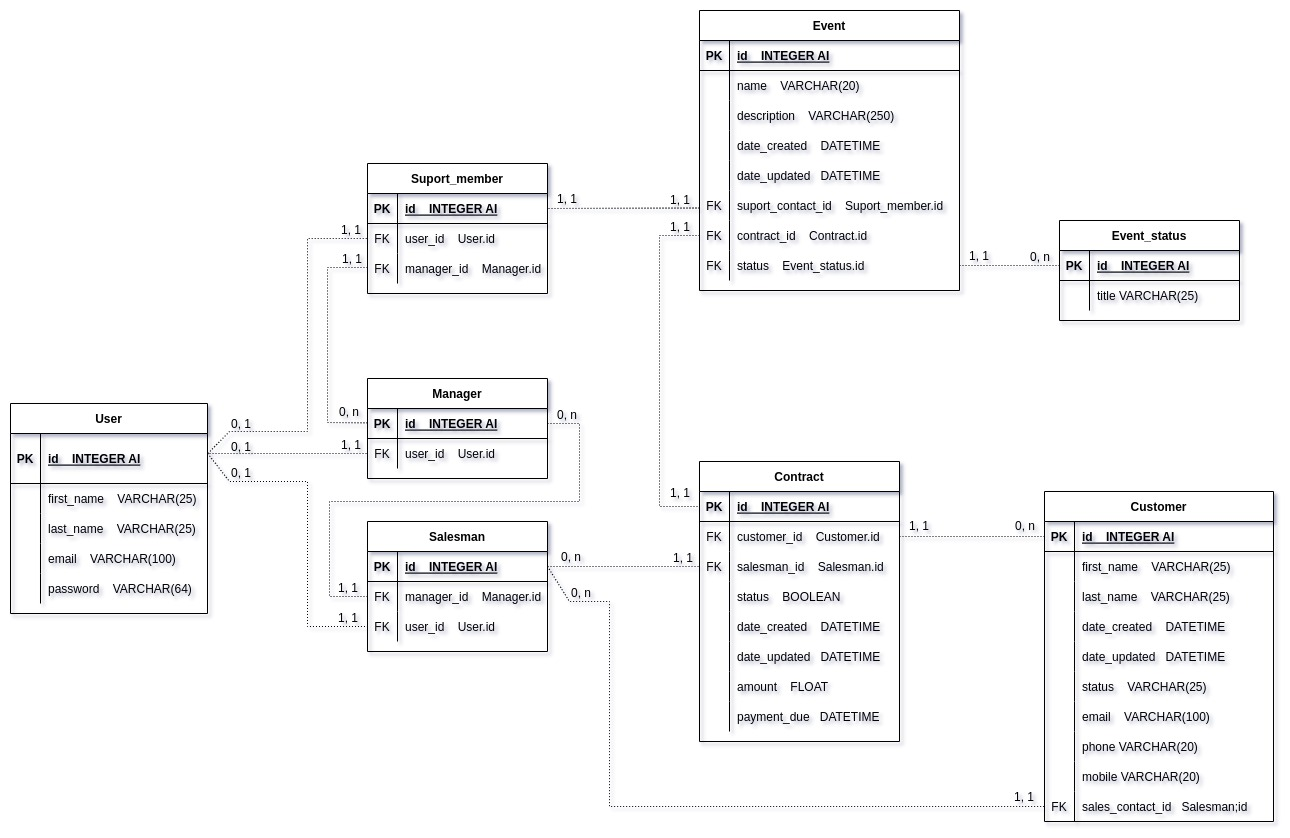
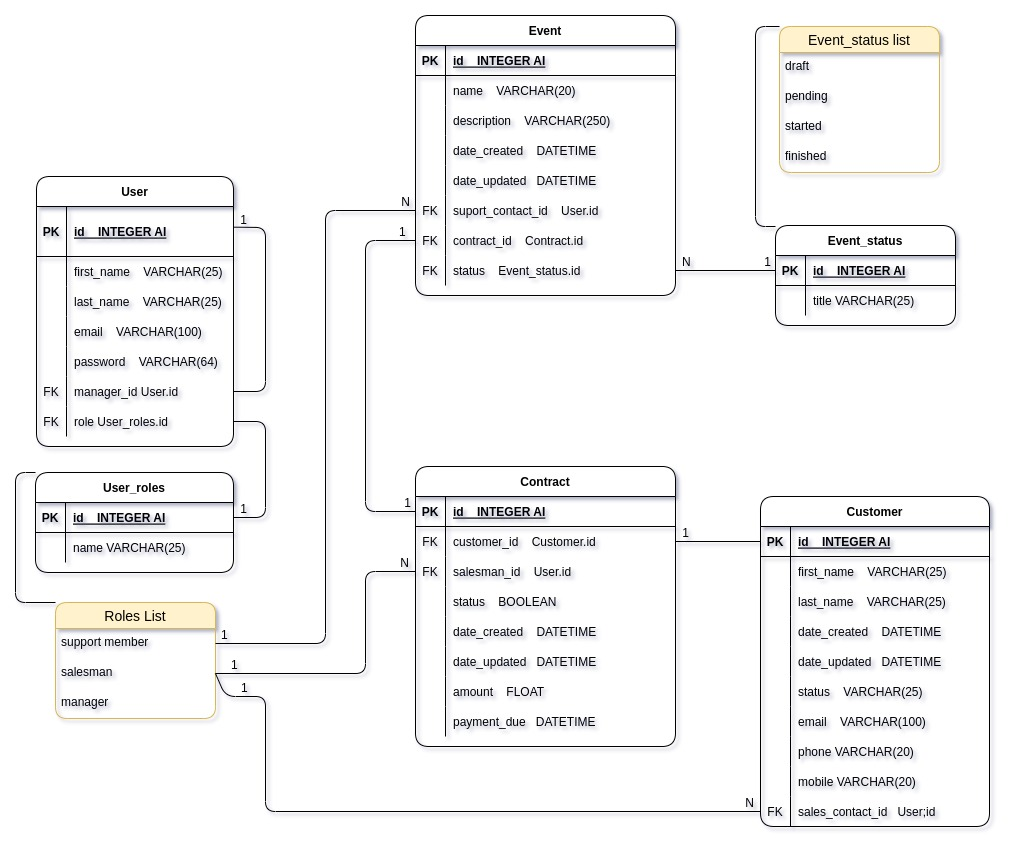
INSERT model and migrate

diff --git a/project/django_epic_event/epicEvent/authentication/models.py b/project/django_epic_event/epicEvent/authentication/models.py
@@ -1,4 +1,18 @@
 from django.contrib.auth.models import AbstractUser
+from django.db import models
 
 class User(AbstractUser):
-    pass
+    first_name = models.CharField(max_length=25)
+    last_name = models.CharField(max_length=25)
+    email = models.TextField(max_length=100)
+    password = models.CharField(max_length=128)
+    manager_id = models.ForeignKey("authentication.User", verbose_name="manager", on_delete=models.SET_NULL, related_name="manager", blank=True, null=True)
+    role = models.ForeignKey("authentication.Role", on_delete=models.SET_NULL, blank=True, null=True)
+
+    class Meta:
+        constraints = [
+            models.UniqueConstraint(fields=["email"], name="unique_user")
+        ]
+
+class Role(models.Model):
+    name = models.CharField(max_length=25)

diff --git a/project/django_epic_event/epicEvent/epicEvent/settings.py b/project/django_epic_event/epicEvent/epicEvent/settings.py
@@ -45,6 +45,9 @@ INSTALLED_APPS = [
     'rest_framework',
     'rest_framework_simplejwt',
     'corsheaders',
+    'contrat',
+    'event',
+    'customer'
 ]
 
 MIDDLEWARE = [
@@ -92,15 +95,10 @@ DATABASES = {
     'default': {
 
         'ENGINE': 'django.db.backends.postgresql_psycopg2',
-
         'NAME': os.environ.get("DB_NAME"),
-
         'USER': os.environ.get("DB_USER"),
-
         'PASSWORD': os.environ.get("DB_PASSWORD"),
-
         'HOST': os.environ.get("DB_HOST"),
-
         'PORT': os.environ.get("DB_PORT")
 
     }
